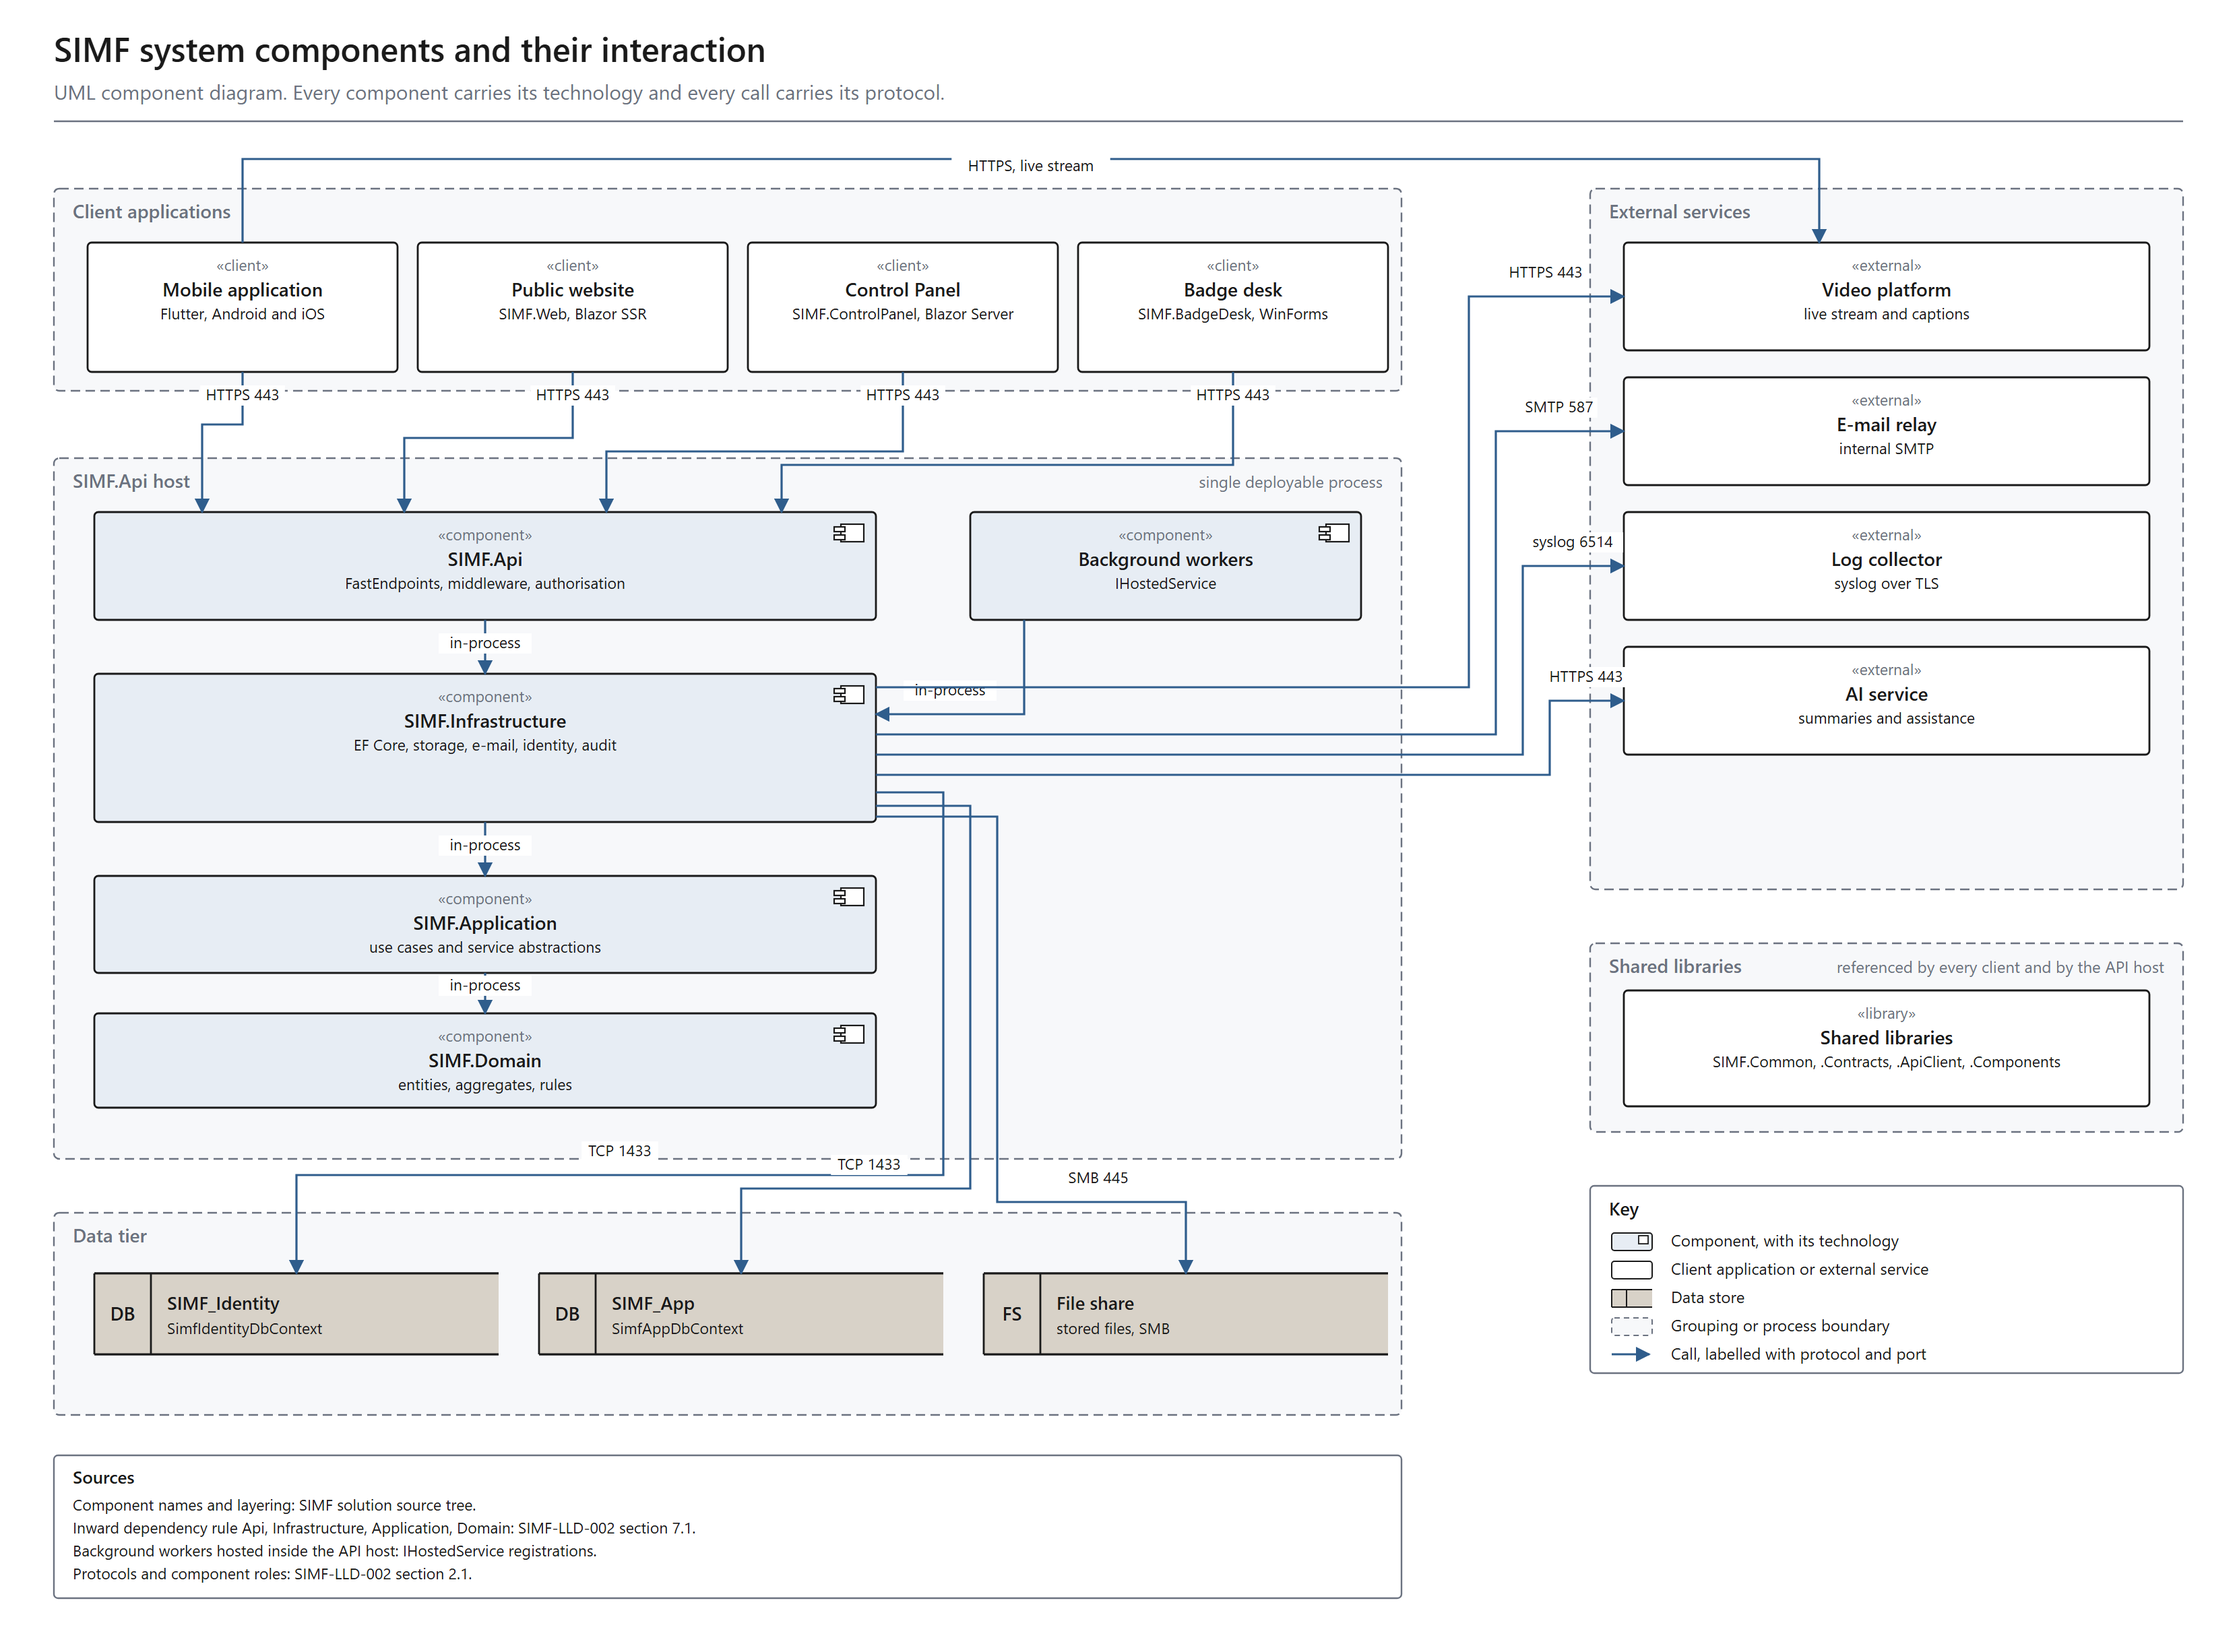
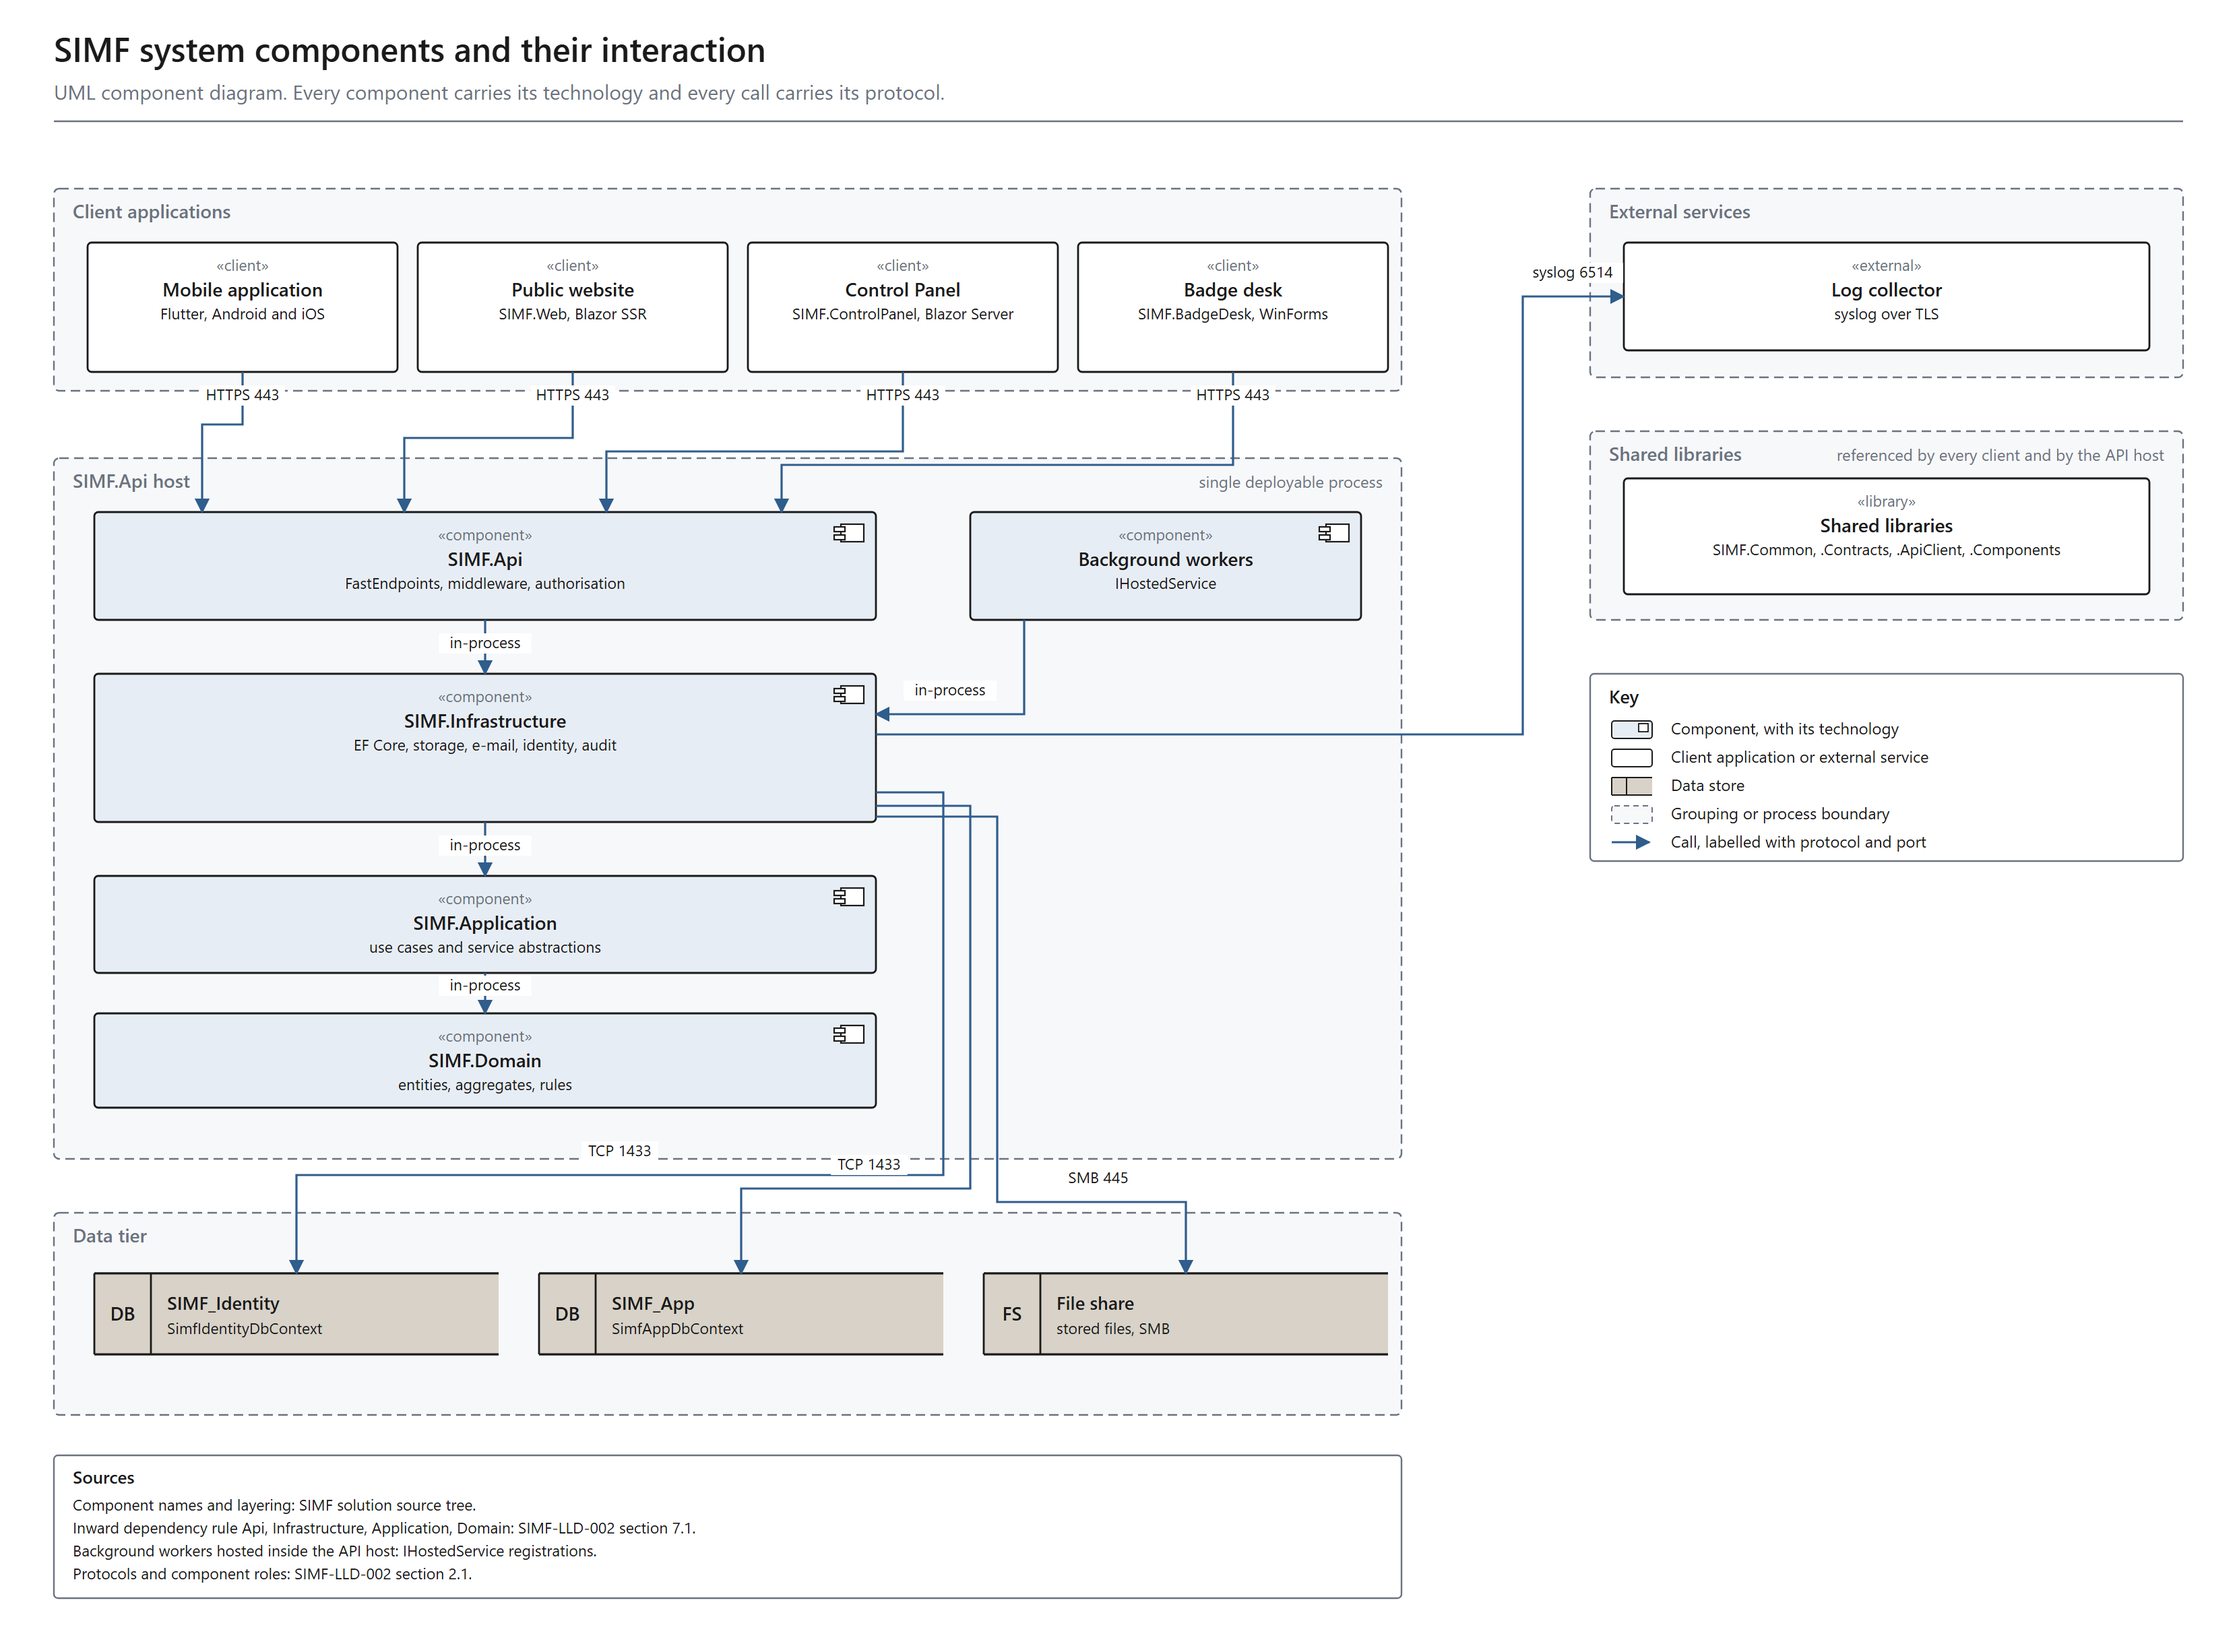
docs(diagrams): take the third-party services out of the architecture sheet
The video platform, the AI service and the e-mail relay are outbound calls to
third-party URLs, not components of this solution. An architecture sheet that
boxes them implies a design commitment the system does not make: nothing is
designed here, a URL is called. Owner decision, 2026-08-10.

They are not being hidden. The data that travels to each belongs on the
data-flow sheet, with the payload named, which is where a reader asking "what
leaves the estate, and what is in it" should be looking.

The log collector stays. It is infrastructure the estate depends on and it
receives from this host continuously, which is a different kind of relationship
from calling a public API.

This is a redraw rather than a delete: svgkit positions every element
absolutely, so removing three boxes left an oversized band, an orphaned
mobile-to-video-platform path and three dead connector routes. The external
band is resized to its one remaining box, shared libraries and the key move up
into the freed column, and the syslog route is re-drawn to the collector's new
position.

Verified by rendering and looking at it: no holes, no orphaned lines, the
syslog path lands on the collector.

diff --git a/tools/diagrams/fig2_component.py b/tools/diagrams/fig2_component.py
@@ -40,15 +40,19 @@ s.box(70, 752, 580, 70, "SIMF.Domain", "component",
       "entities, aggregates, rules", fill=NODE_FILL, component=True)
 
 # ------------------------------------------------------ external systems
-s.band(1180, 140, 440, 520, "External services")
-s.box(1205, 180, 390, 80, "Video platform", "external", "live stream and captions")
-s.box(1205, 280, 390, 80, "E-mail relay", "external", "internal SMTP")
-s.box(1205, 380, 390, 80, "Log collector", "external", "syslog over TLS")
-s.box(1205, 480, 390, 80, "AI service", "external", "summaries and assistance")
+# The video platform, the AI service and the e-mail relay are NOT drawn here.
+# They are outbound calls to third-party URLs, not components of this solution,
+# and an architecture sheet that boxes them implies a design commitment the
+# system does not make. The data that travels to each of them is a data-flow
+# concern and is shown on the data-flow sheet instead (owner decision,
+# 2026-08-10). The log collector stays: it is infrastructure the estate depends
+# on and it receives from this host continuously.
+s.band(1180, 140, 440, 140, "External services")
+s.box(1205, 180, 390, 80, "Log collector", "external", "syslog over TLS")
 
-s.band(1180, 700, 440, 140, "Shared libraries",
+s.band(1180, 320, 440, 140, "Shared libraries",
        "referenced by every client and by the API host")
-s.box(1205, 735, 390, 86, "Shared libraries", "library",
+s.box(1205, 355, 390, 86, "Shared libraries", "library",
       "SIMF.Common, .Contracts, .ApiClient, .Components")
 
 # ------------------------------------------------------------- data tier
@@ -67,10 +71,6 @@ s.path([(670, 276), (670, 335), (450, 335), (450, 380)], "HTTPS 443",
 s.path([(915, 276), (915, 345), (580, 345), (580, 380)], "HTTPS 443",
        label_at=(915, 304))
 
-# the stream is played by the device itself, never through a SIMF server
-s.path([(180, 180), (180, 118), (1350, 118), (1350, 180)], "HTTPS, live stream",
-       label_at=(765, 134))
-
 # ------------------------------------------------------- inward layering
 s.path([(360, 460), (360, 500)], "in-process", label_at=(360, 488))
 s.path([(360, 610), (360, 650)], "in-process", label_at=(360, 638))
@@ -78,14 +78,8 @@ s.path([(360, 722), (360, 752)], "in-process", label_at=(360, 742))
 s.path([(760, 460), (760, 530), (650, 530)], "in-process", label_at=(705, 523))
 
 # ------------------------------------------- infrastructure to the outside
-s.path([(650, 510), (1090, 510), (1090, 220), (1205, 220)], "HTTPS 443",
-       label_at=(1147, 213))
-s.path([(650, 545), (1110, 545), (1110, 320), (1205, 320)], "SMTP 587",
-       label_at=(1157, 313))
-s.path([(650, 560), (1130, 560), (1130, 420), (1205, 420)], "syslog 6514",
-       label_at=(1167, 413))
-s.path([(650, 575), (1150, 575), (1150, 520), (1205, 520)], "HTTPS 443",
-       label_at=(1177, 513))
+s.path([(650, 545), (1130, 545), (1130, 220), (1205, 220)], "syslog 6514",
+       label_at=(1167, 213))
 
 s.path([(650, 588), (700, 588), (700, 872), (220, 872), (220, 945)], "TCP 1433",
        label_at=(460, 865))
@@ -95,7 +89,7 @@ s.path([(650, 606), (740, 606), (740, 892), (880, 892), (880, 945)], "SMB 445",
        label_at=(815, 885))
 
 # ------------------------------------------------------------- apparatus
-s.legend(1180, 880, 440, [
+s.legend(1180, 500, 440, [
     ("comp", "Component, with its technology"),
     ("box", "Client application or external service"),
     ("store", "Data store"),
